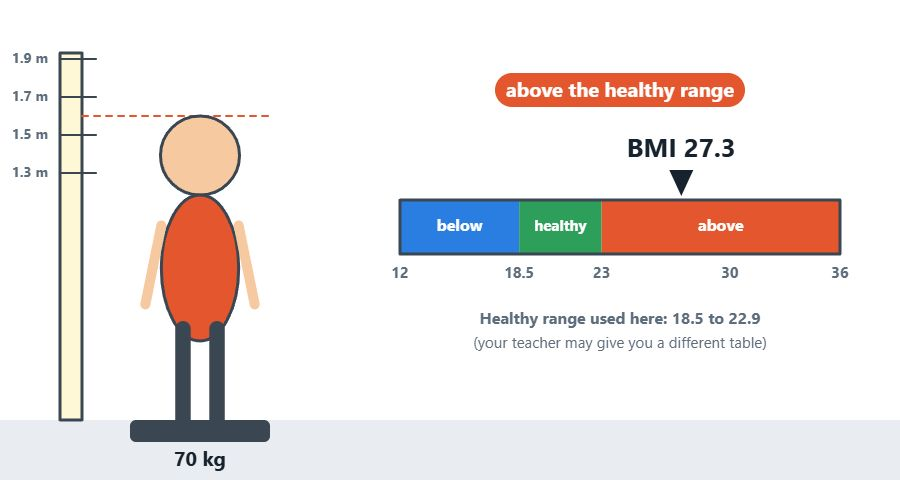
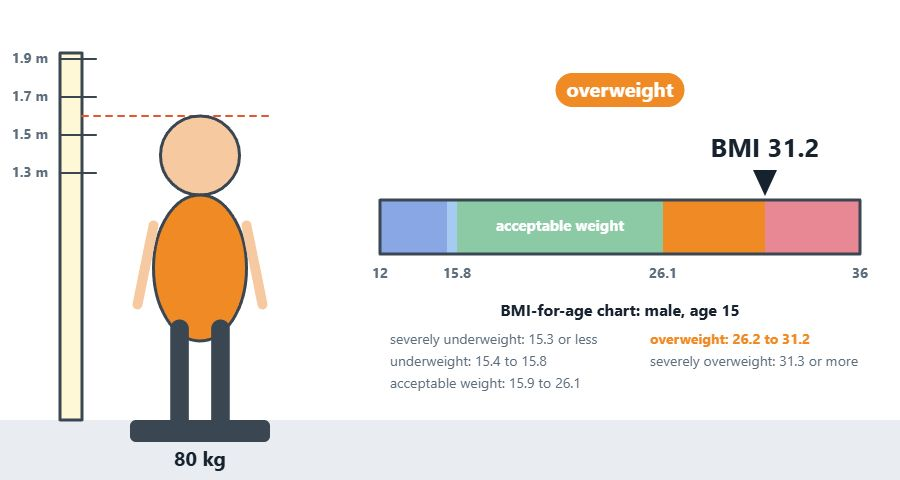
BMI applet: BMI-for-age charts from the G1 Activity Book (8.2A)
Choose male or female and age 12-18; the weight indicator (severely
underweight, underweight, acceptable weight, overweight, severely
overweight) comes from Tables 1 and 2 of the activity book, replacing
the adult 18.5-22.9 range. Checked against the TLG answers (28.4 is
overweight for a 15-year-old boy, etc.). Two new quiz questions;
worksheets 8.3 (mass) and 8.4 (height).

diff --git a/ntsci/sims/health-bmi.html b/ntsci/sims/health-bmi.html
@@ -3,22 +3,33 @@
 <script>
 (() => {
 const bmi = s => s.m / (s.h * s.h);
-const LO = 18.5, HI = 23;                       // healthy range used here: 18.5 to 22.9 (adult guide used in Singapore)
-const zone = b => (b < LO ? ['below the healthy range', '#2a7de1'] : b < HI ? ['in the healthy range', '#2e9e5b'] : ['above the healthy range', '#e4572e']);
+// BMI-for-age charts for ages 12 to 18 (G1 Science Activity Book, 8.2A, Tables 1 and 2).
+// For each age: the highest BMI for severely underweight, underweight, acceptable weight and overweight. Above the last = severely overweight.
+const CHART = {
+  male: { 12: [14.4, 14.8, 24.3, 29.2], 13: [14.7, 15.1, 25.0, 30.0], 14: [15.0, 15.4, 25.5, 30.6], 15: [15.3, 15.8, 26.1, 31.2], 16: [15.6, 16.1, 26.5, 31.7], 17: [15.9, 16.3, 27.0, 32.1], 18: [16.1, 16.6, 27.4, 32.4] },
+  female: { 12: [14.4, 14.8, 23.4, 27.5], 13: [14.8, 15.2, 24.0, 28.3], 14: [15.1, 15.5, 24.6, 28.9], 15: [15.4, 15.8, 25.0, 29.4], 16: [15.7, 16.1, 25.4, 29.7], 17: [15.9, 16.3, 25.7, 30.0], 18: [16.1, 16.5, 25.9, 30.3] },
+};
+const NAMES = ['severely underweight', 'underweight', 'acceptable weight', 'overweight', 'severely overweight'];
+const COLS = ['#2a5fd0', '#5aa0e8', '#2e9e5b', '#f08a24', '#d7263d'];
+const r1 = v => Math.round(v * 10) / 10;
+const band = s => { const b = r1(bmi(s)), t = CHART[s.sex][s.age]; let k = 0; while (k < 4 && b > t[k]) k++; return k; };
+const AGES = [12, 13, 14, 15, 16, 17, 18];
 NT.sim({
   title: 'Body mass index (BMI)', emoji: '⚖',
-  idea: 'BMI = mass (kg) ÷ [height (m) × height (m)]. It shows if a person\'s mass is in the healthy range.',
+  idea: 'BMI = mass (kg) ÷ [height (m) × height (m)]. Compare the BMI with the BMI-for-age chart to find the weight indicator.',
   controls: [
+    { id: 'sex', label: 'Chart for', value: 'male', options: [['male', 'Male', '👦'], ['female', 'Female', '👧']] },
+    { id: 'age', label: 'Age', value: 15, options: AGES.map(a => [a, String(a)]) },
     { id: 'm', label: 'Mass', noun: 'the mass', type: 'range', min: 30, max: 100, step: 1, value: 50, unit: 'kg' },
     { id: 'h', label: 'Height', noun: 'the height', type: 'range', min: 1.3, max: 1.9, step: 0.01, value: 1.6, unit: 'm', fmt: v => v.toFixed(2) },
   ],
   readings: [
     { id: 'bmi', label: 'BMI', noun: 'the BMI', always: true, dp: 1, get: bmi },
-    { id: 'z', label: 'This mass is', always: true, get: s => zone(bmi(s))[0] },
+    { id: 'z', label: 'Weight indicator', noun: 'the weight indicator', always: true, get: s => NAMES[band(s)] },
   ],
   say: s => 'BMI = ' + s.m + ' ÷ (' + s.h.toFixed(2) + ' × ' + s.h.toFixed(2) + ') = ' + s.m + ' ÷ ' + (s.h * s.h).toFixed(2) + ' = ' + bmi(s).toFixed(1),
   draw(P, s) {
-    const C = P.C, b = bmi(s), z = zone(b), H = s.h * 190, w = Math.max(26, Math.min(110, (b - 8) * 4)), base = 420, top = base - H, cx = 200;
+    const C = P.C, b = bmi(s), k = band(s), t = CHART[s.sex][s.age], H = s.h * 190, w = Math.max(26, Math.min(110, (b - 8) * 4)), base = 420, top = base - H, cx = 200;
     P.rect(0, 420, 900, 60, { fill: '#e9edf1' });
     // height scale and weighing scale
     P.rect(60, base - 1.9 * 190 - 6, 22, 1.9 * 190 + 6, { fill: '#fff8d6', stroke: C.dark, lw: 3 }); [1.3, 1.5, 1.7, 1.9].forEach(v => { P.line(60, base - v * 190, 96, base - v * 190, { color: C.dark, lw: 2 }); P.text(v.toFixed(1) + ' m', 30, base - v * 190, { size: 14, color: C.mute }); });
@@ -26,30 +37,37 @@ NT.sim({
     P.rect(cx - 70, base, 140, 22, { fill: C.dark, r: 6 }); P.text(s.m + ' kg', cx, base + 40, { size: 20 });
     // the person
     const head = H * 0.13; P.circle(cx, top + head, head, { fill: '#f6c9a0', stroke: C.dark, lw: 3 });
-    P.oval(cx, top + head * 2 + H * 0.24, w * 0.5, H * 0.24, { fill: z[1], stroke: C.dark, lw: 3 });
+    P.oval(cx, top + head * 2 + H * 0.24, w * 0.5, H * 0.24, { fill: COLS[k], stroke: C.dark, lw: 3 });
     P.line(cx - w * 0.22, top + head * 2 + H * 0.44, cx - w * 0.22, base, { color: C.dark, lw: Math.max(8, w * 0.2) }); P.line(cx + w * 0.22, top + head * 2 + H * 0.44, cx + w * 0.22, base, { color: C.dark, lw: Math.max(8, w * 0.2) });
     P.line(cx - w * 0.5, top + head * 2 + H * 0.1, cx - w * 0.5 - 16, top + head * 2 + H * 0.36, { color: '#f6c9a0', lw: 10 }); P.line(cx + w * 0.5, top + head * 2 + H * 0.1, cx + w * 0.5 + 16, top + head * 2 + H * 0.36, { color: '#f6c9a0', lw: 10 });
-    // BMI scale 12 to 36
-    const x0 = 400, wd = 440, X = v => x0 + ((Math.max(12, Math.min(36, v)) - 12) / 24) * wd;
-    P.rect(X(12), 200, X(LO) - X(12), 54, { fill: '#2a7de1' }); P.rect(X(LO), 200, X(HI) - X(LO), 54, { fill: '#2e9e5b' }); P.rect(X(HI), 200, X(36) - X(HI), 54, { fill: '#e4572e' }); P.rect(x0, 200, wd, 54, { stroke: C.dark, lw: 3 });
-    [12, 18.5, 23, 30, 36].forEach(v => P.text(String(v), X(v), 274, { size: 15, color: C.mute }));
-    P.text('below', (X(12) + X(LO)) / 2, 227, { size: 16, color: '#fff' }); P.text('healthy', (X(LO) + X(HI)) / 2, 227, { size: 15, color: '#fff' }); P.text('above', (X(HI) + X(36)) / 2, 227, { size: 16, color: '#fff' });
+    // the chart row for this sex and age, drawn as a coloured scale from 12 to 36
+    const x0 = 380, wd = 480, lo = 12, hi = 36, X = v => x0 + ((Math.max(lo, Math.min(hi, v)) - lo) / (hi - lo)) * wd;
+    const edges = [lo, t[0] + 0.05, t[1] + 0.05, t[2] + 0.05, t[3] + 0.05, hi];
+    for (let i = 0; i < 5; i++) P.rect(X(edges[i]), 200, X(edges[i + 1]) - X(edges[i]), 54, { fill: COLS[i], alpha: i === k ? 1 : 0.55 });
+    P.rect(x0, 200, wd, 54, { stroke: C.dark, lw: 3 });
+    P.text('acceptable weight', (X(edges[2]) + X(edges[3])) / 2, 227, { size: 15, color: '#fff' });
+    [t[1], t[2]].forEach(v => P.text(v.toFixed(1), X(v + 0.05), 274, { size: 14, color: C.mute }));
+    P.text(String(lo), X(lo), 274, { size: 14, color: C.mute }); P.text(String(hi), X(hi), 274, { size: 14, color: C.mute });
     P.poly([[X(b), 196], [X(b) - 12, 170], [X(b) + 12, 170]], { fill: C.ink }); P.text('BMI ' + b.toFixed(1), X(b), 150, { size: 26 });
-    P.tag(z[0], x0 + wd / 2, 90, { bg: z[1], size: 20 }); P.text('Healthy range used here: 18.5 to 22.9', x0 + wd / 2, 320, { size: 16, color: C.mute }); P.text('(your teacher may give you a different table)', x0 + wd / 2, 344, { size: 15, color: C.mute, bold: false });
+    P.tag(NAMES[k], x0 + wd / 2, 90, { bg: COLS[k], size: 20 });
+    // the chart row in words
+    P.text('BMI-for-age chart: ' + s.sex + ', age ' + s.age, x0 + wd / 2, 312, { size: 16 });
+    const f = v => v.toFixed(1), lines = ['severely underweight: ' + f(t[0]) + ' or less', 'underweight: ' + f(t[0] + 0.1) + ' to ' + f(t[1]), 'acceptable weight: ' + f(t[1] + 0.1) + ' to ' + f(t[2]), 'overweight: ' + f(t[2] + 0.1) + ' to ' + f(t[3]), 'severely overweight: ' + f(t[3] + 0.1) + ' or more'];
+    lines.forEach((ln, i) => P.text(ln, i < 3 ? x0 + 10 : x0 + wd / 2 + 30, 340 + (i % 3) * 22, { size: 14, align: 'left', color: i === k ? COLS[i] : C.mute, bold: i === k }));
   },
   inquiry: [
-    { name: 'Change the mass', q: 'Same height (1.60 m). What happens to the BMI when the mass goes up?',
+    { name: 'Change the mass', q: 'A 15-year-old boy is 1.60 m tall. What happens to his BMI and weight indicator as his mass goes up?',
       guess: ['The BMI goes up', 'The BMI goes down', 'The BMI stays the same'], guessAns: 0,
-      change: 'm', measure: ['bmi', 'z'], dv: 'the BMI', fix: { h: 1.6 }, tests: [40, 50, 60, 70],
-      same: ['the height (1.60 m)', 'the same healthy range table'],
-      found: ['At the same height, a bigger mass gives a ', ['bigger', 'smaller'], ' BMI. For 1.60 m, a mass of ', ['50 kg', '70 kg'], ' is in the healthy range.'], foundAns: [0, 0],
-      why: 'BMI = mass (kg) ÷ [height (m) × height (m)]. BMI helps us check whether the mass of a person is in the healthy range for their height.' },
-    { name: 'Change the height', q: 'Same mass (60 kg). What happens to the BMI when the person is taller?',
+      change: 'm', measure: ['bmi', 'z'], dv: 'the BMI and the weight indicator', fix: { sex: 'male', age: 15, h: 1.6 }, tests: [40, 50, 60, 70, 80],
+      same: ['the height (1.60 m)', 'the same BMI-for-age chart (male, 15)'],
+      found: ['At the same height, a bigger mass gives a ', ['bigger', 'smaller'], ' BMI. For this boy, a mass of ', ['50 kg', '80 kg'], ' is an acceptable weight.'], foundAns: [0, 0],
+      why: 'BMI = mass (kg) ÷ [height (m) × height (m)]. The BMI-for-age chart tells us whether the mass is in the healthy range for a person of that age and sex.' },
+    { name: 'Change the height', q: 'A 15-year-old boy has a mass of 60 kg. What happens to his BMI if he is taller?',
       guess: ['The BMI goes down', 'The BMI goes up', 'The BMI stays the same'], guessAns: 0,
-      change: 'h', measure: ['bmi', 'z'], dv: 'the BMI', fix: { m: 60 }, tests: [1.5, 1.6, 1.7, 1.8],
-      same: ['the mass (60 kg)', 'the same healthy range table'],
+      change: 'h', measure: ['bmi', 'z'], dv: 'the BMI and the weight indicator', fix: { sex: 'male', age: 15, m: 60 }, tests: [1.5, 1.6, 1.7, 1.8],
+      same: ['the mass (60 kg)', 'the same BMI-for-age chart (male, 15)'],
       found: ['For the same mass, a taller person has a ', ['smaller', 'bigger'], ' BMI. So we must compare mass ', ['with height', 'on its own'], '.'], foundAns: [0, 0],
-      why: 'The same mass can be healthy for a tall person but too much for a short person. That is why BMI uses both mass and height.' },
+      why: 'The same mass can be an acceptable weight for a tall person but overweight for a short person. That is why BMI uses both mass and height.' },
   ],
 });
 })();

diff --git a/ntsci/t8_health.py b/ntsci/t8_health.py
@@ -10,7 +10,7 @@ APPLETS = [
     {"name": "💊 Antibiotic course", "file": "health-antibiotic", "inq": True,
      "try": ["Stop the antibiotic after 3 days. What happens to the bacteria after that?", "Now take the full 7-day course."]},
     {"name": "⚖ BMI", "file": "health-bmi", "inq": True, "height": 860,
-     "try": ["Set a mass of 50 kg and a height of 1.60 m. Work out the BMI yourself, then check.", "Find a mass that is in the healthy range for a height of 1.70 m."]},
+     "try": ["Set a mass of 50 kg and a height of 1.60 m. Work out the BMI yourself, then check.", "Choose your own sex and age. Find a mass that is an **acceptable weight** for a height of 1.70 m.", "Keep the same mass and height. Change from Male to Female. Does the weight indicator change?"]},
     {"name": "🥗 Balanced diet", "file": "health-diet", "height": 900,
      "try": ["Match all 7 nutrients to their jobs."]},
     {"name": "🦴 Bones and joints", "file": "health-joints", "height": 900,
@@ -29,6 +29,12 @@ QUESTIONS = [
          why="Each nutrient has its own job."),
     dict(type="num", pic="⚖", q="A student has a mass of 64 kg and a height of 1.6 m. What is their BMI? (BMI = mass ÷ (height × height))", answer=25, tol=0.05,
          why="64 ÷ (1.6 × 1.6) = 64 ÷ 2.56 = 25."),
+    dict(type="mcq", pic="📋", q="A 15-year-old boy has a BMI of 28.4. His row of the BMI-for-age chart is: severely underweight 15.3 or less, underweight 15.4–15.8, acceptable weight 15.9–26.1, overweight 26.2–31.2, severely overweight 31.3 or more. His weight indicator is…",
+         options=["underweight", "acceptable weight", "overweight", "severely overweight"], answer=2,
+         why="28.4 is between 26.2 and 31.2, so it is overweight."),
+    dict(type="mcq", pic="👦👧", q="Why do we use a BMI-for-age chart for teenagers, instead of one table for everyone?",
+         options=["the healthy range of BMI changes with age and is different for males and females", "teenagers do not have a BMI", "the formula is different for teenagers"], answer=0,
+         why="The same formula is used, but the acceptable range depends on age and sex."),
     dict(type="mcq", pic="🦴", q="Bones become weak and break easily. This is…",
          options=["osteoporosis", "a sprain", "arthritis"], answer=0,
          why="Too little calcium, vitamin D and exercise raise the risk."),

diff --git a/ntsci/tools/worksheets/build.py b/ntsci/tools/worksheets/build.py
@@ -47,7 +47,8 @@ SHEETS = [
     ("7.2", "safe-milk", [0], "Can heat keep milk fresh?", "Heat and milk"),
     ("8.1", "health-germs", [0], "Germ killers", "Germ killers"),
     ("8.2", "health-antibiotic", [0], "Finish the antibiotic course", "Antibiotic course"),
-    ("8.3", "health-bmi", [0, 1], "What changes the BMI?", "BMI"),
+    ("8.3", "health-bmi", [0], "BMI and mass", "BMI"),
+    ("8.4", "health-bmi", [1], "BMI and height", "BMI"),
     ("9.1", "dig-enzyme", [0], "Enzymes and pH", "Enzymes at work"),
     ("9.2", "dig-enzyme", [1], "Enzymes and temperature", "Enzymes at work"),
     ("10.1", "breath-air", [0], "Inhaled and exhaled air", "Inhaled and exhaled air"),
